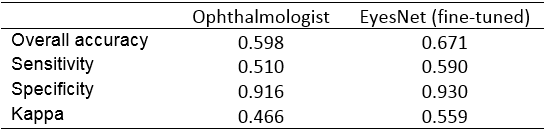
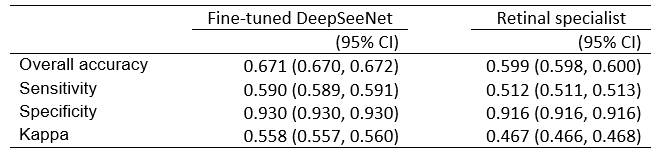
change name

Changed region(s): [[0.0, 0.0, 1.0, 0.9778]]

diff --git a/docs/index.html b/docs/index.html
@@ -8,7 +8,7 @@
 
   <!--Let browser know website is optimized for mobile-->
   <meta name="viewport" content="width=device-width, initial-scale=1.0"/>
-  <title>EyesNet: A deep learning framework for classifying patient-based age-related macular degeneration severity in
+  <title>DeepSeeNet: A deep learning framework for classifying patient-based age-related macular degeneration severity in
     retinal color fundus photographs</title>
 
   <style>
@@ -85,11 +85,11 @@
     <div class="container">
       <div class="row">
         <div class="col s12">
-            <h3>EyesNet: A deep learning framework for classifying patient-based
+            <h3>DeepSeeNet: A deep learning framework for classifying patient-based
             age-related macular degeneration severity in retinal color fundus photographs</h3>
         </div>
         <div class="col l12">
-            <h5>Yifan Peng<sup>1*</sup>, Shazia Dharssi<sup>1,2*</sup>, Qingyu Chen<sup>1</sup>, Elvira Agron<sup>2</sup>, Wai Wong<sup>2</sup>, Emily Y. Chew<sup>2&dagger;</sup>, Zhiyong Lu<sup>1&dagger;</sup></h5>
+            <h5>Yifan Peng<sup>1*</sup>, Shazia Dharssi<sup>1,2*</sup>, Qingyu Chen<sup>1</sup>, Elvira Agrón<sup>2</sup>, Wai Wong<sup>2</sup>, Emily Y. Chew<sup>2&dagger;</sup>, Zhiyong Lu<sup>1&dagger;</sup></h5>
             <p>1. National Center for Biotechnology Information (NCBI), National Library of Medicine (NLM), National Institutes of Health (NIH), Bethesda, Maryland, United States;</p>
             <p>2. National Eye Institute (NEI), National Institutes of Health (NIH), Bethesda, Maryland, United States;</p>
             <p>* These authors contributed equally to this work.</p>
@@ -106,12 +106,12 @@
 <section>
   <div class="container">
     <div class="row">
-      <div class="col l9">
-        <h5>We developed a deep learning framework that can classify retinal color fundus photographs into a 6 class patient-based age-related macular degeneration (AMD) severity score at a level that exceeds U.S.-licensed ophthalmologists.</h5>
+      <div class="col l7">
+        <h5>We developed a deep learning framework that can classify retinal color fundus photographs into a 6 class patient-based age-related macular degeneration (AMD) severity score at a level that exceeds retinal specialists.</h5>
         <p>Age-related macular degeneration (AMD) is the leading cause of incurable blindness worldwide in people over the age of 65. The Age-Related Eye Disease Study (AREDS) Simplified Severity Scale uses two risk factors found in color fundus photographs (drusen and pigmentary abnormalities) to provide convenient risk categories for the development of late AMD. However, manual assignment can still be time consuming, expensive, and requires domain expertise.<p>
-        <p>Our model, EyesNet, mimics the human grading process by first detecting risk factors for each eye (large drusen and pigmentary abnormalities) and subsequently calculates patient-based AMD severity scores. EyesNet was trained and validated on 59,302 color fundus photographs from 4,549 participants.</p>
+        <p>Our model, DeepSeeNet, mimics the human grading process by first detecting risk factors for each eye (large drusen and pigmentary abnormalities) and subsequently calculates patient-based AMD severity scores. DeepSeeNet was trained and validated on 59,302 color fundus photographs from 4,549 participants.</p>
       </div>
-      <div class="col l3"><img src="images/Fig9.png"></div>
+      <div class="col l5"><img src="images/Fig5.png"></div>
     </div>
   </div>
 </section>
@@ -121,8 +121,8 @@
     <div class="row">
       <div class="col l6"><img src="images/Fig1.png" style="padding-top:20px"></div>
       <div class="col l6">
-        <h5>EyesNet was trained on the NIH AREDS dataset, the largest publicly available dataset of color fundus images for AMD analysis</h5>
-        <p>This dataset, released by the NIH, contains retinal color fundus images from over 4,549 patients. Grades obtained from a central reading center were used to calculate AMD severity scores for ground truth labels. Performance of EyesNet was compared to the performance of U.S.-licensed ophthalmologists, who independently graded at baseline 450 AREDS patients based on a clinical evaluation.</p>
+        <h5>DeepSeeNet was trained on the NIH AREDS dataset, the largest publicly available dataset of color fundus images for AMD analysis</h5>
+        <p>This dataset, released by the NIH, contains retinal color fundus images from over 4,549 patients. Grades obtained from a central reading center were used to calculate AMD severity scores for ground truth labels. Performance of DeepSeeNet was compared to the performance of retinal specialists, who independently assessed 450 AREDS participants as part of a qualification survey used to determine initial AMD severity for each eye.</p>
       </div>
     </div>
   </div>
@@ -132,8 +132,8 @@
   <div class="container">
     <div class="row">
       <div class="col s6">
-        <h5>Our model consistently exceeds U.S.-licensed ophthalmologists on drusen and pigmentary abnormalities, and is comparable to ophthalmologists on late AMD detection. </h5>
-        <p>As seen to the left, EyesNet's performance (accuracy=0.671; kappa=0.559) exceeds ophthalmologist performance levels (accuracy=0.598; kappa=0.466) on identifying AREDS Simplified Severity Scale scores. Additionally, EyesNet's performance was compared to two other deep learning models with different training strategies employed. Again, EyesNet's performance is superior to both model performance levels.</p>
+        <h5>Our model consistently exceeds retinal specialists on drusen and pigmentary abnormalities, and is comparable to retinal specialists on late AMD detection. </h5>
+        <p>As seen to the right, DeepSeeNet's performance (accuracy=0.671; kappa=0.558) exceeds retinal specialists performance levels (accuracy=0.599; kappa=0.467) on identifying AREDS Simplified Severity Scale scores. Additionally, DeepSeeNet's performance was compared to two other deep learning models with different training strategies employed. Again, DeepSeeNet's performance is superior to both model performance levels.</p>
       </div>
       <div class="col s6"><img src="images/Tab4.png" style="padding-top:40px"></div>
     </div>
@@ -146,7 +146,8 @@
       <div class="col s12">
         <h5>Summary</h5>
         <p>While several automated deep learning systems have been developed for classifying color fundus photographs of individual eyes by AMD severity score, none to date have utilized a patient-based scoring system that employs images from both eyes to obtain one classification score for the individual.</p>
-        <p>EyesNet, trained on one of the largest color fundus image datasets for AMD analysis, shows high classification accuracy in the AREDS dataset and can be used to assign individual patients to AMD risk categories based on the AREDS Simplified Severity Scale. Its superior performance compared to ophthalmologists’ clinical examination of AMD highlights the potential of deep learning systems to enhance clinical decision-making processes and allow for better understanding of retinal disease.</p>
+        <p>DeepSeeNet, trained on one of the largest color fundus image datasets for AMD analysis, shows high classification accuracy in the AREDS dataset and can be used to assign individual patients to AMD risk categories based on the AREDS Simplified Severity Scale. DeepSeeNet performed better on patient-based, multi-class classification (accuracy=0.671; kappa=0.558) than retinal specialists (accuracy=0.599; kappa=0.467) with high AUCs in the detection of large drusen (0.94), pigmentary abnormalities (0.93) and late AMD (0.97), respectively.
+        Its superior performance highlights the potential of deep learning systems to enhance clinical decision-making processes and allow for better understanding of retinal disease.</p>
       </div>
     </div>
   </div>

diff --git a/README.rst b/README.rst
@@ -1,8 +1,8 @@
-.. image:: https://github.com/ncbi-nlp/DeepSeeNet/blob/master/images/eyesnet.png?raw=true
-   :target: https://github.com/ncbi-nlp/DeepSeeNet/blob/master/images/eyesnet.png?raw=true
-   :alt: EyesNet
-   
-   
+.. image:: https://github.com/ncbi-nlp/DeepSeeNet/blob/master/images/deepseenet.png?raw=true
+   :target: https://github.com/ncbi-nlp/DeepSeeNet/blob/master/images/deepseenet.png?raw=true
+   :alt: DeepSeeNet
+
+
 -----------------------
 
 DeepSeeNet is a high-performance deep learning framework for grading of color fundus photographs using the AREDS simplified severity scale.
